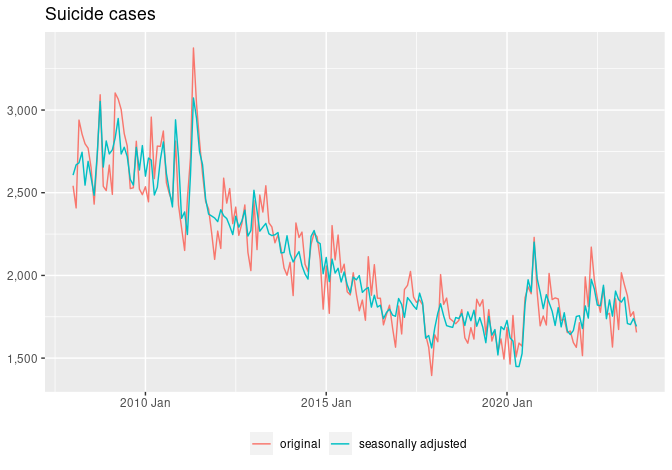
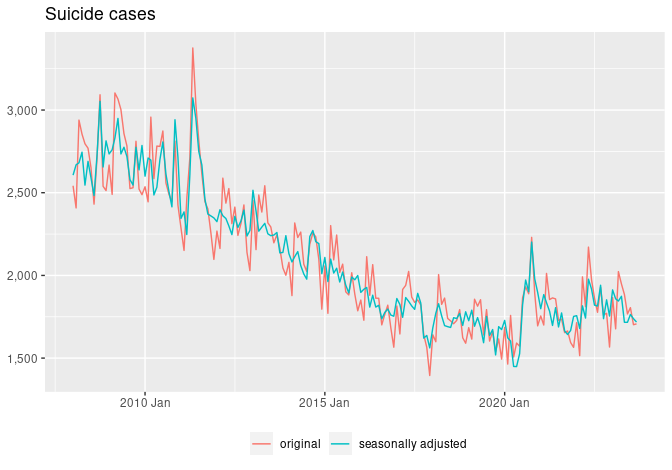
update September 2023 cases and unemployment rate

Changed region(s): [[0.125, 0.1191, 0.9688, 0.8043], [0.7188, 0.834, 0.8125, 0.8638], [0.4375, 0.834, 0.5312, 0.8638]]

diff --git a/README.md b/README.md
@@ -10,7 +10,7 @@ Mitsuo Shiota
 - [Suicide cases are bouncing back, but not as fast as the program
   suggests](#suicide-cases-are-bouncing-back-but-not-as-fast-as-the-program-suggests)
 
-Updated: 2023-09-20
+Updated: 2023-11-01
 
 ## Motivation
 
